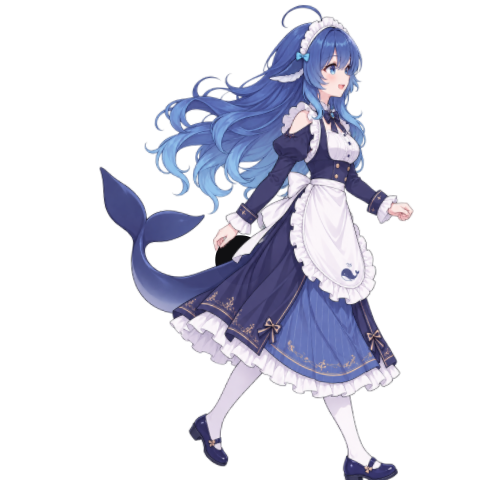
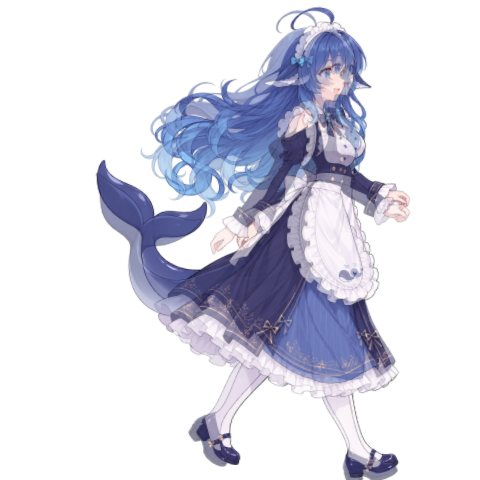
v0.13.1：gpt-image-2 补绘产线落地 + healthy 尾件交付 + 修复 v0.13.0 部件漏交
【新增产线 tools/gen_fill.py】quanzil 中转 /v1/images/edits|generations 封装（probe/fill/patch 三模式）；密钥只走 QUANZIL_API_KEY 环境变量不入仓；patch 模式=区域回贴门禁（区域外逐字节=原图，构造性零漂移）。

【关键发现留痕】quanzil 中转不遵守 images/edits 掩码保真——实测可编辑带外仍有 9.4% 像素被全局重渲染（v0.10.19 漂移同形态）。因此生成图一律不得整图采用，必须按差分足迹回贴：本轮补绘回贴内容 80935px+置透明 157888px，足迹外字节未动。

【healthy 尾件四步闭环】①edits 掩码移除鲸尾+重建被遮裙摆蕾丝发丝（背景透明参数被正确遵守 α0=59.4%）②差分足迹闭运算（先 8x 域重膨胀再填洞，勿与膨胀自相交）得尾部足迹 23.9 万 px，区域回贴出派生核心 figs/healthy_neutral.png——全分辨率对照零接缝零残影 ③edits 无掩码抽尾独立透明件（风格/形准良好，位置比例失配）④以补丁核删除足迹为锚自动对位重摆（stem 判据=先宽后薄长段，防鳍尖细行误触；s=0.3203）→ parts/tail_healthy_neutral.png + manifest（sway phase 1300ms 与 neglected 件错相）。静置合成（件在下+核在上=运行时层序）IoU=0.9616。已知限制记档：原画中尾柄压裙前的一段在 under_core 层序下改走裙后，显示档（×0.31）不可辨。

【修复 v0.13.0 部件漏交】.gitignore 模板规则 parts/（python 打包残留目录）误伤 assets/rig/**/parts/，neglected 尾件静默未入库（运行时降级为无摆尾不崩）。补例外规则 !assets/rig/**/parts/ 并补交 neglected+healthy 两件。

【QA 留痕】spikes/_qa/：补绘全分辨率对照 zoom3、抽尾件本体、对齐脚本 align_tail_healthy.py（可复跑）、静置合成三联、掩码两版中间产物、probe 样张。回归：test_v13_rig 28/28 不变。版本号单一源 0.13.1

Changed region(s): [[0.1875, 0.0, 0.875, 1.0], [0.375, 0.8125, 0.5, 0.9688]]

diff --git a/spikes/_qa/align_tail_healthy.py b/spikes/_qa/align_tail_healthy.py
@@ -1,0 +1,166 @@
+"""一次性装配:healthy 尾生成件重摆入画布 + manifest 更新 + QA。
+
+流程(对应 v0.13.1 产线):
+  D  = 原α>0 且 补丁核α=0   —— 尾露出裙摆进入虚空的"删除足迹"
+  目标鳍区 = D 中 stem 收窄点以上部分 → 质心/面积
+  生成件最大连通域同理取鳍区 → 缩放比 s=sqrt(面积比)
+  整尾按 s 缩放、鳍质心对齐贴回画布 → 裁 bbox → parts/tail_healthy_neutral.png
+  pivot = D 最底行中心(入裙点)微下移
+QA: 核(底)+件(上)静置合成 vs 原图 α IoU
+"""
+
+from __future__ import annotations
+
+import json
+import math
+import os
+import sys
+
+from PIL import Image
+
+REPO = os.path.dirname(os.path.dirname(os.path.dirname(os.path.abspath(__file__))))
+O = Image.open(os.path.join(REPO, 'assets/ai/final_healthy_neutral.png')).convert('RGBA')
+C = Image.open(os.path.join(REPO, 'assets/rig/final/figs/healthy_neutral.png')).convert('RGBA')
+G = Image.open(os.path.join(REPO, 'spikes/_qa/_tail_extract_raw.png')).convert('RGBA')
+w, h = O.size
+op, cp, gp = O.load(), C.load(), G.load()
+
+# ---- D 足迹 ----
+D = [[1 if op[x, y][3] > 0 and cp[x, y][3] == 0 else 0 for x in range(w)] for y in range(h)]
+rows = [(y, sum(D[y])) for y in range(h)]
+vis_rows = [y for y, c in rows if c > 0]
+y_top, y_bot = vis_rows[0], vis_rows[-1]
+peak_w = max(c for _, c in rows)
+# stem 判据:先出现 ≥60% 峰宽的"宽行段",其后的首个"长薄行段"起点
+# (薄=宽<25% 峰宽;长=连续 ≥60 行)——鳍尖天然细长,不满足"先宽后薄"
+wide_seen = False
+stem_y = None
+run = 0
+for y in range(y_top, y_bot + 1):
+    c = rows[y][1]
+    if c >= peak_w * 0.6:
+        wide_seen = True
+        run = 0
+        continue
+    if wide_seen and 0 < c < peak_w * 0.25:
+        run += 1
+        if run == 1:
+            cand = y
+        if run >= 60:
+            stem_y = cand
+            break
+    else:
+        run = 0
+print(f'D y∈[{y_top},{y_bot}] 峰值行宽={peak_w} stem_y={stem_y}')
+
+cut = stem_y if stem_y is not None else y_bot
+t_pix = [(x, y) for y in range(h) for x in range(w) if D[y][x] and y < cut]
+tcx = sum(p[0] for p in t_pix) / len(t_pix)
+tcy = sum(p[1] for p in t_pix) / len(t_pix)
+print(f'目标鳍 质心=({tcx:.1f},{tcy:.1f}) 面积={len(t_pix)}')
+
+# ---- 生成件最大域 ----
+seen = [[False] * w for _ in range(h)]
+best = []
+for y0 in range(h):
+    for x0 in range(w):
+        if gp[x0, y0][3] > 64 and not seen[y0][x0]:
+            stack = [(x0, y0)]
+            seen[y0][x0] = True
+            comp = []
+            while stack:
+                x, y = stack.pop(); comp.append((x, y))
+                for nx, ny in ((x+1, y), (x-1, y), (x, y+1), (x, y-1)):
+                    if 0 <= nx < w and 0 <= ny < h and gp[nx, ny][3] > 64 and not seen[ny][nx]:
+                        seen[ny][nx] = True; stack.append((nx, ny))
+            if len(comp) > len(best):
+                best = comp
+rowsg = {}
+for (x, y) in best:
+    rowsg[y] = rowsg.get(y, 0) + 1
+ysg = sorted(rowsg)
+stemg = next((y for y in ysg[len(ysg) // 4:] if rowsg[y] < 40), ysg[-1])
+g_pix = [(x, y) for (x, y) in best if y < stemg]
+gcx = sum(p[0] for p in g_pix) / len(g_pix)
+gcy = sum(p[1] for p in g_pix) / len(g_pix)
+print(f'生成鳍 质心=({gcx:.1f},{gcy:.1f}) 面积={len(g_pix)}')
+
+s = math.sqrt(len(t_pix) / len(g_pix))
+if not (0.25 <= s <= 2.5) or len(t_pix) < 5000:
+    raise SystemExit(f'缩放比/目标面积异常 s={s:.4f} t_area={len(t_pix)} —— 掩码判定失效,中止')
+print(f'缩放比 s={s:.4f}')
+
+# ---- 重摆 ----
+gw, gh = G.size
+nw, nh = max(1, int(gw * s)), max(1, int(gh * s))
+Gs = G.resize((nw, nh), Image.LANCZOS)
+sp = Gs.load()
+g2x, g2y = gcx * s, gcy * s
+canvas = Image.new('RGBA', (w, h), (0, 0, 0, 0))
+cpn = canvas.load()
+ox = int(round(tcx - g2x)); oy = int(round(tcy - g2y))
+n_pasted = 0
+for y in range(nh):
+    ty = oy + y
+    if not (0 <= ty < h):
+        continue
+    for x in range(nw):
+        tx = ox + x
+        if 0 <= tx < w:
+            px = sp[x, y]
+            if px[3] > 0:
+                cpn[tx, ty] = px
+                n_pasted += 1
+print(f'贴回像素={n_pasted} offset=({ox},{oy}) 缩后尺寸={nw}x{nh}')
+bb = canvas.getbbox()
+print(f'件 bbox={bb}')
+part = canvas.crop(bb)
+part_path = os.path.join(REPO, 'assets/rig/final/parts/tail_healthy_neutral.png')
+part.save(part_path)
+
+# ---- pivot: D 最底可见行中心 ----
+last = max(y for y, c in rows if c > 0)
+xs = [x for x in range(w) if D[last][x]]
+px_join = sum(xs) / len(xs)
+pivot = [round(px_join), min(last + 8, h - 1)]
+print('pivot=', pivot)
+
+# ---- manifest 更新 ----
+mpath = os.path.join(REPO, 'assets/rig/final/manifest.json')
+m = json.load(open(mpath, encoding='utf-8'))
+m['figures']['healthy_neutral'] = 'figs/healthy_neutral.png'
+m['parts'] = [p for p in m['parts'] if p.get('id') != 'tail_healthy_neutral']
+m['parts'].append({
+    'id': 'tail_healthy_neutral',
+    'file': 'parts/tail_healthy_neutral.png',
+    'source_figure': 'healthy_neutral',
+    'px_rect': list(bb),
+    'pivot': pivot,
+    'z': 'under_core',
+    'sway': {'amp_deg': 4, 'period_ms': 2600, 'phase_ms': 1300},
+})
+json.dump(m, open(mpath, 'w', encoding='utf-8'), ensure_ascii=False, indent=2)
+print('manifest 已更新:', m['figures'], [p['id'] for p in m['parts']])
+
+# ---- QA: 静置合成 IoU ----
+comp = Image.new('RGBA', (w, h), (0, 0, 0, 0))
+comp.alpha_composite(canvas)
+comp.alpha_composite(C)          # 件在下、核在上 = 运行时层序
+res = comp.getchannel('A').point(lambda v: 255 if v else 0)
+orig_a = O.getchannel('A').point(lambda v: 255 if v else 0)
+rb, ob = res.tobytes(), orig_a.tobytes()
+inter = sum(1 for a, b in zip(rb, ob) if a and b)
+union = sum(1 for a, b in zip(rb, ob) if a or b)
+iou = inter / union
+missing = sum(1 for a, b in zip(rb, ob) if b and not a)
+print(f'静置合成 IoU={iou:.4f}  原图有而合成缺={missing}px')
+qa = Image.new('RGB', ((1024 - 620) * 2 + 12, 1360 - 460), (24, 24, 28))
+z = (620, 460, 1024, 1360)
+def dark(im):
+    bg = Image.new('RGBA', im.size, (30, 30, 36, 255))
+    bg.alpha_composite(im.crop(z))
+    return bg.crop(z).convert('RGB')
+qa.paste(dark(O), (0, 0))
+qa.paste(dark(comp), (z[2] - z[0] + 12, 0))
+qa.save(os.path.join(REPO, 'spikes/_qa/healthy_tail_rest_composite.png'))
+print('QA 已存 healthy_tail_rest_composite.png')

diff --git a/tools/gen_fill.py b/tools/gen_fill.py
@@ -1,0 +1,170 @@
+#!/usr/bin/env python
+"""gpt-image-2 补绘工具（v0.13.1）—— quanzil 中转 /v1/images/edits 封装。
+
+安全与产线约定：
+  · **密钥只走环境变量** ``QUANZIL_API_KEY``，绝不入仓/入日志。
+  · **区域回贴门禁（构造性零漂移）**：``--patch`` 模式把生成图仅按补绘区
+    掩码拷回原图其余像素逐字节保留原图 —— 画风一致性由"区域外=原图"构造
+    保证，规避 v0.10.19 整图重生成漂移事故的成因。
+
+用法：
+  # 探针（验证连通/模型名/响应形态，低成本）
+  python tools/gen_fill.py probe
+
+  # 区域补绘：输入带透明洞的原图 + 编辑掩码（洞=透明可编辑），输出整图
+  python tools/gen_fill.py fill --image core_hole.png --mask hole_mask.png \\
+      --prompt "..." --out filled.png [--size 1024x1536] [--quality high]
+
+  # 区域回贴：把 filled.png 的补绘岛拷回 original.png
+  python tools/gen_fill.py patch --original assets/ai/final_healthy_neutral.png \\
+      --filled filled.png --mask hole_mask.png --out figs_out.png
+"""
+
+from __future__ import annotations
+
+import argparse
+import base64
+import io
+import json
+import os
+import sys
+
+import requests
+from PIL import Image
+
+BASE = "https://quanzil.com/v1"
+MODEL = "gpt-image-2"
+
+
+def _key() -> str:
+    key = os.environ.get("QUANZIL_API_KEY", "").strip()
+    if not key:
+        raise SystemExit("缺少环境变量 QUANZIL_API_KEY（不要把密钥写进命令行历史/文件）")
+    return key
+
+
+def _save_b64(b64: str, out: str) -> None:
+    Image.open(io.BytesIO(base64.b64decode(b64))).convert("RGBA").save(out)
+    print(f"✅ 已保存 {out}")
+
+
+def probe(_args=None) -> int:
+    r = requests.post(
+        f"{BASE}/images/generations",
+        headers={"Authorization": f"Bearer {_key()}"},
+        json={"model": MODEL, "prompt": "a single small blue dot on white",
+              "size": "1024x1024", "quality": "low", "n": 1},
+        timeout=300,
+    )
+    print("HTTP", r.status_code)
+    try:
+        data = r.json()
+    except ValueError:
+        print(r.text[:800])
+        return 1
+    if r.status_code == 200:
+        item = (data.get("data") or [{}])[0]
+        if item.get("b64_json"):
+            _save_b64(item["b64_json"], "spikes/_qa/probe_gen.png")
+        else:
+            print("data[0] keys:", list(item.keys()), str(item)[:300])
+        usage = data.get("usage")
+        if usage:
+            print("usage:", json.dumps(usage, ensure_ascii=False))
+        return 0
+    print(json.dumps(data, ensure_ascii=False)[:1500])
+    return 1
+
+
+def mask_png(path: str) -> tuple[bytes, str]:
+    with open(path, "rb") as f:
+        return f.read(), "image/png"
+
+
+def file_png(path: str) -> tuple[bytes, str]:
+    with open(path, "rb") as f:
+        return f.read(), "image/png"
+
+
+def fill(args) -> int:  # noqa: 接口统一
+    im_bytes, _ = file_png(args.image)
+    mk_bytes, _ = mask_png(args.mask)
+    files = {
+        "model": (None, MODEL),
+        "prompt": (None, args.prompt),
+        "image": ("image.png", im_bytes, "image/png"),
+        "mask": ("mask.png", mk_bytes, "image/png"),
+        "size": (None, args.size),
+    }
+    if args.quality:
+        files["quality"] = (None, args.quality)
+    if args.background:
+        files["background"] = (None, args.background)
+    r = requests.post(
+        f"{BASE}/images/edits",
+        headers={"Authorization": f"Bearer {_key()}"},
+        files=files,
+        timeout=600,
+    )
+    print("HTTP", r.status_code)
+    try:
+        data = r.json()
+    except ValueError:
+        print(r.text[:800])
+        return 1
+    if r.status_code != 200:
+        print(json.dumps(data, ensure_ascii=False)[:1500])
+        return 1
+    item = (data.get("data") or [{}])[0]
+    if not item.get("b64_json"):
+        print("无 b64_json：", str(item)[:400])
+        return 1
+    _save_b64(item["b64_json"], args.out)
+    return 0
+
+
+def patch(args) -> int:
+    """回贴：mask 不透明(α>0)处取 filled 像素，其余 = original。"""
+    orig = Image.open(args.original).convert("RGBA")
+    filled = Image.open(args.filled).convert("RGBA")
+    mask = Image.open(args.mask).convert("RGBA")
+    if mask.size != orig.size or filled.size != orig.size:
+        raise SystemExit(f"尺寸不一致 o={orig.size} f={filled.size} m={mask.size}")
+    op, fp, mp = orig.load(), filled.load(), mask.load()
+    copied = 0
+    for y in range(orig.height):
+        for x in range(orig.width):
+            if mp[x, y][3] > 0:          # 掩码可见 ⇒ 该像素属于补绘岛
+                op[x, y] = fp[x, y]
+                copied += 1
+    orig.save(args.out)
+    total = orig.width * orig.height
+    print(f"✅ 回贴完成 {args.out} —— 改动 {copied}/{total} 像素"
+          f"（{copied * 100.0 / total:.2f}%），区域外逐字节=原图（构造性零漂移）")
+    return 0
+
+
+def main() -> int:
+    ap = argparse.ArgumentParser()
+    sub = ap.add_subparsers(dest="cmd", required=True)
+    sub.add_parser("probe")
+    f = sub.add_parser("fill")
+    f.add_argument("--image", required=True)
+    f.add_argument("--mask", required=True)
+    f.add_argument("--prompt", required=True)
+    f.add_argument("--out", required=True)
+    f.add_argument("--size", default="1024x1536")
+    f.add_argument("--quality", default=None,
+                   help="low/medium/high；正式件建议 medium 起")
+    f.add_argument("--background", default=None)
+    p = sub.add_parser("patch")
+    p.add_argument("--original", required=True)
+    p.add_argument("--filled", required=True)
+    p.add_argument("--mask", required=True)
+    p.add_argument("--out", required=True)
+    args = ap.parse_args()
+    return {"probe": probe, "fill": fill, "patch": patch}[args.cmd](args)
+
+
+if __name__ == "__main__":
+    sys.exit(main())

diff --git a/pet/__init__.py b/pet/__init__.py
@@ -1,4 +1,4 @@
 """桌宠核心包。"""
 
 # 版本单一源：app.APP_VERSION 由本值派生（发版只改这里）
-__version__ = "0.13.0"
+__version__ = "0.13.1"

diff --git a/工作表.md b/工作表.md
@@ -112,3 +112,7 @@
 - **mac端**：待适配（polish 与回归；win 先行交付）
 - **win端**：P0 渲染载体 spike ✅@win端(`spikes/spike_rig_qtquick.py`：offscreen 软件渲染 4/4 + 实机 D3D11 合成目检；坑留档——QQuickWidget 默认 SizeViewToRootObject 遇无尺寸根 Item 缩成 0×0) / 拆件工具与资产 ✅@win端(`tools/split_parts.py` α 连通域+屏障确定性切割，final/neglected 尾件+派生核心图入库；healthy 姿态裙摆宽幅屏障失效记已知限制) / RigWindow+场景+装配 ✅@win端(降级铁律三级收敛 build_rig_window；presentation 配置键；is_playing 收口私有读)
 - **共享(认领)**：AssetProvider/FSM 接口零破坏 ✅(behavior 增公开 velocity 只读、window 增 is_playing/set_motion_params no-op 缺省，v02-v11 十三套 286 检查全绿佐证) / 测试 `spikes/test_v13_rig.py` ✅@win端(28/28：spec 降级矩阵、装配回退、淡化序列簿记、facing/motion 钩子、emoji 降级可见性)。已知限制：桌面截图管线在本机出现冻结假象（时钟不跳），实机观感请用户以 `python spikes/spike_rig_live_demo.py` 自行复核
+
+## v0.13.1 healthy 尾件补绘拆切
+
+- **win端**：gpt-image-2 产线闭环 ✅@win端(`tools/gen_fill.py` probe/fill/patch 三模式,密钥只走 env) / healthy 尾件交付 ✅@win端(edits 掩码移除尾→差分足迹闭运算→区域回贴出派生核心"构造性区域外=原图";edits 无掩码抽尾→删除足迹对位重摆(s=0.3203)→parts+manifest;静置合成 IoU=0.9616) / 关键发现 ✅留痕(**quanzil 中转不遵守掩码保真**——带外仍有 9.4% 像素被重渲染,整图采用=v0.10.19 漂移形态,必须区域回贴) / 几何算法两课留痕(stem 判据须"先宽后薄的长段"防鳍尖误触;闭运算勿与膨胀自相交,先重膨胀再填洞) / QA 全套 `spikes/_qa/`(补绘zoom/抽尾件/对齐脚本/三联对照)

diff --git a/版本规划.md b/版本规划.md
@@ -370,7 +370,7 @@
   - [x] emoji 降级路径可用（label 接管）
   - [x] 回归锁 `spikes/test_v13_rig.py` 全绿；v02–v11 十三套全量保持绿
 - Should
-  - [ ] healthy 分支尾件拆切（现几何屏障在裙摆宽幅姿态下不可靠，已知限制回退整图）
+  - [x] healthy 分支尾件拆切（v0.13.1 解：gpt-image-2 edits 补绘 + 区域回贴门禁；残项：尾柄原画压裙前段在 under_core 层序下改走裙后，显示档不可辨）
   - [ ] mac 端适配（polish 与回归）；young/adult 两阶段资产
   - [ ] 实机 CPU/GPU 红线复测（psutil 台账）
 
